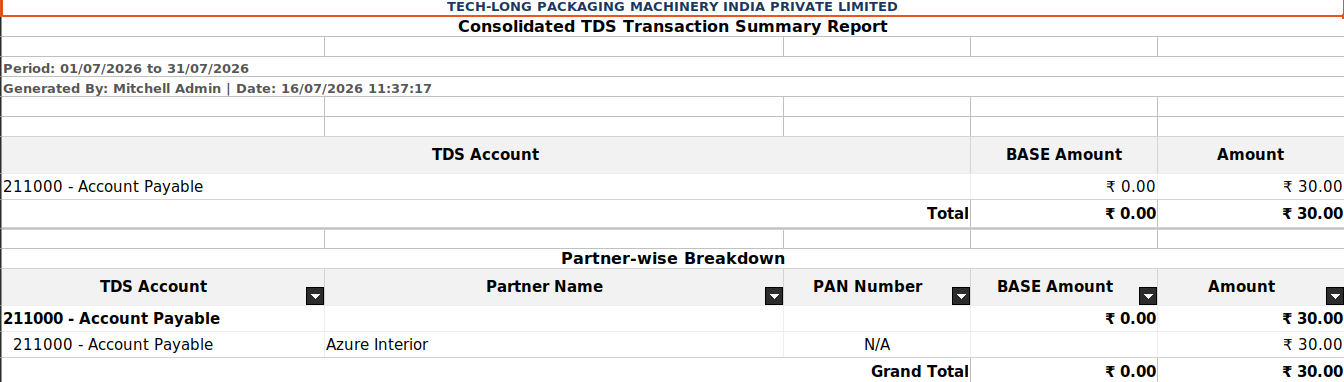
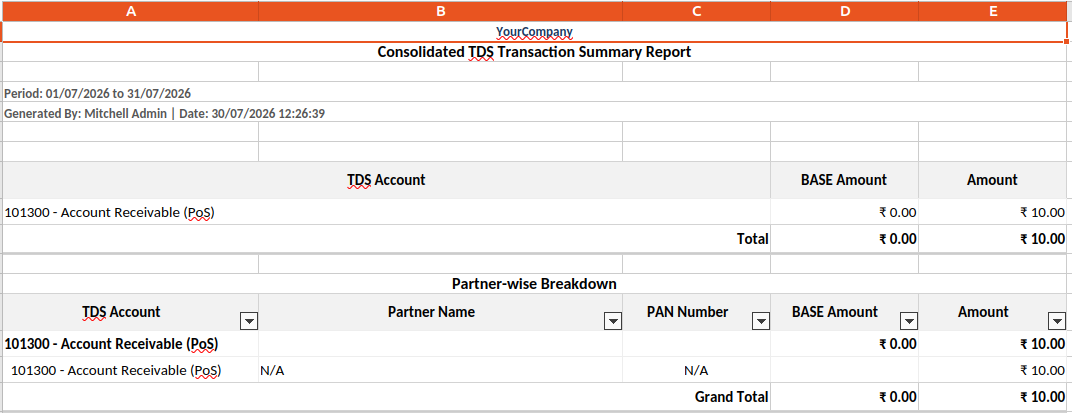
[17.0] update the image

diff --git a/ucs_tds_report/wizard/tds_report_wizard.py b/ucs_tds_report/wizard/tds_report_wizard.py
@@ -261,8 +261,9 @@ class TDSReportWizard(models.TransientModel):
         # ----------------------------------------------------
         # SHEET 1: Summary Sheet
         # ----------------------------------------------------
+        company_name = self.env.company.name
         summary_sheet = workbook.add_worksheet('Summary')
-        summary_sheet.merge_range('A1:E1', 'TECH-LONG PACKAGING MACHINERY INDIA PRIVATE LIMITED', title_format)
+        summary_sheet.merge_range('A1:E1', company_name, title_format)
         summary_sheet.merge_range('A2:E2', 'Consolidated TDS Transaction Summary Report', subtitle_format)
         
         from_str = self.date_from.strftime('%d/%m/%Y')
@@ -389,7 +390,7 @@ class TDSReportWizard(models.TransientModel):
             month_sheet = workbook.add_worksheet(tab_name)
 
             # Titles
-            month_sheet.merge_range('A1:H1', 'TECH-LONG PACKAGING MACHINERY INDIA PRIVATE LIMITED', title_format)
+            month_sheet.merge_range('A1:H1', company_name, title_format)
             month_sheet.merge_range('A2:H2', f'TDS Transaction Details - {month_str}', subtitle_format)
             month_sheet.merge_range('A4:H4', f"Period: {month_str}", info_format)
             month_sheet.merge_range('A5:H5', f"Generated By: {self.env.user.name} | Date: {gen_date_str}", info_format)
